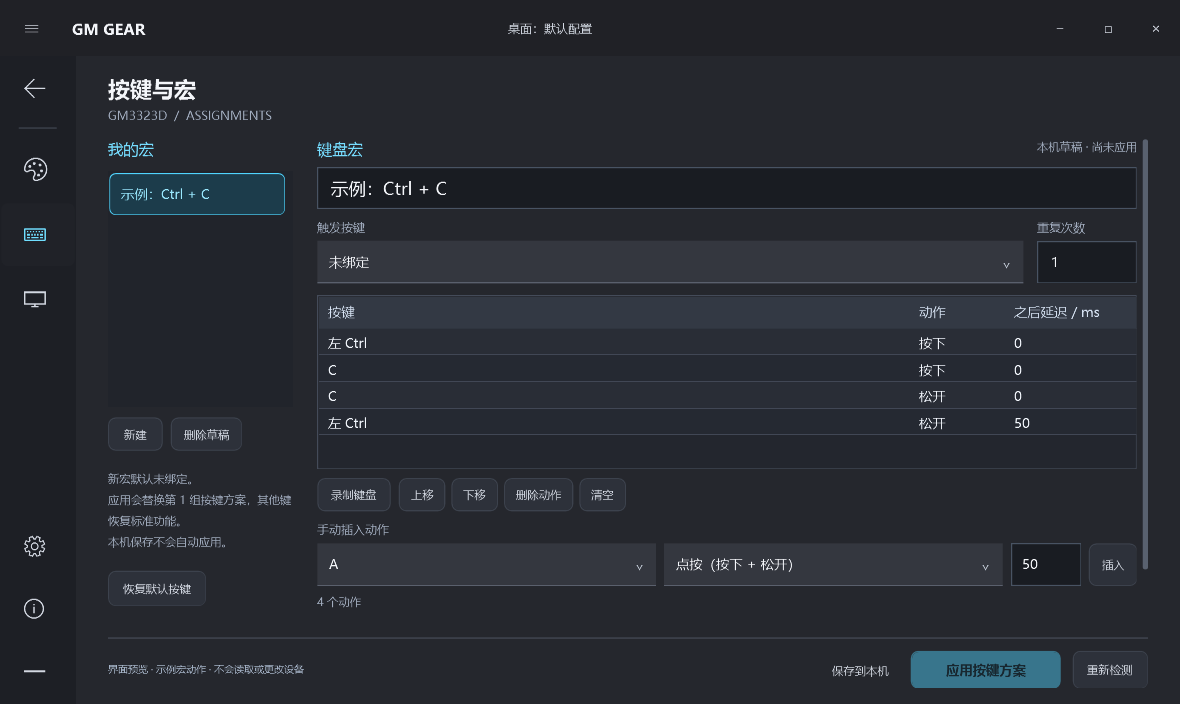
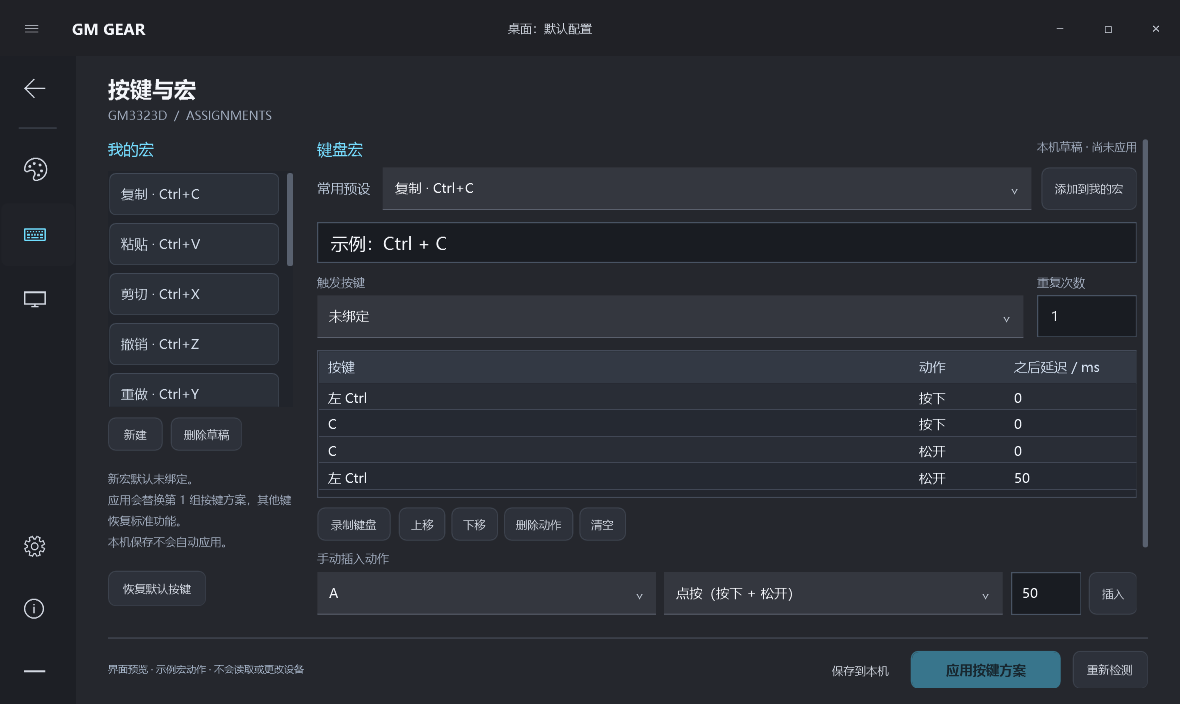
Add common shortcut presets and preserve existing macro drafts

diff --git a/hub/MainWindow.xaml b/hub/MainWindow.xaml
@@ -149,12 +149,17 @@
       </StackPanel>
       <StackPanel Grid.Column="2">
        <Grid Margin="0,0,0,8"><TextBlock Text="键盘宏" Foreground="#76DDFF" FontSize="15"/><TextBlock Text="{Binding Macros.Status}" Foreground="#A2ADBF" FontSize="11" HorizontalAlignment="Right"/></Grid>
+       <Grid Margin="0,0,0,12"><Grid.ColumnDefinitions><ColumnDefinition Width="Auto"/><ColumnDefinition Width="*"/><ColumnDefinition Width="Auto"/></Grid.ColumnDefinitions>
+        <TextBlock Text="常用预设" Foreground="#BCC9DB" VerticalAlignment="Center" Margin="0,0,12,0"/>
+        <ComboBox x:Name="MacroPresetBox" Grid.Column="1" ItemsSource="{Binding Macros.Presets}" SelectedItem="{Binding Macros.SelectedPreset}" DisplayMemberPath="Label" AutomationProperties.Name="常用宏预设"/>
+        <Button x:Name="MacroPresetButton" Grid.Column="2" Content="添加到我的宏" Padding="13,9" FontSize="11" Margin="10,0,0,0" ToolTip="生成完整按键动作，默认未绑定；快捷键效果取决于当前应用。"/>
+       </Grid>
        <TextBox x:Name="MacroNameBox" Text="{Binding Macros.Selected.Name,UpdateSourceTrigger=PropertyChanged}" MaxLength="40" FontSize="17" Padding="10,8" AutomationProperties.Name="宏名称"/>
        <Grid Margin="0,11,0,12"><Grid.ColumnDefinitions><ColumnDefinition Width="*"/><ColumnDefinition Width="14"/><ColumnDefinition Width="100"/></Grid.ColumnDefinitions>
         <StackPanel><TextBlock Text="触发按键" Style="{StaticResource Muted}" Margin="0,0,0,5"/><ComboBox x:Name="MacroTargetBox" ItemsSource="{Binding Macros.Targets}" SelectedIndex="{Binding Macros.Selected.TargetIndex}" AutomationProperties.Name="宏触发按键"/></StackPanel>
         <StackPanel Grid.Column="2"><TextBlock Text="重复次数" Style="{StaticResource Muted}" Margin="0,0,0,5"/><TextBox x:Name="MacroRepeatBox" Text="{Binding Macros.Selected.RepeatText,UpdateSourceTrigger=PropertyChanged}" MaxLength="3" Padding="10,11" AutomationProperties.Name="宏重复次数"/></StackPanel>
        </Grid>
-       <DataGrid x:Name="MacroActionsGrid" ItemsSource="{Binding Macros.Selected.Actions}" SelectedItem="{Binding Macros.Action}" AutoGenerateColumns="False" CanUserAddRows="False" CanUserDeleteRows="False" CanUserReorderColumns="False" SelectionMode="Single" SelectionUnit="FullRow" Height="174" RowHeight="27" HeadersVisibility="Column" GridLinesVisibility="Horizontal" HorizontalGridLinesBrush="#414755" Background="#23262E" Foreground="#F3F6FC" BorderBrush="#444B59" RowBackground="#292D36" AlternatingRowBackground="#252932">
+       <DataGrid x:Name="MacroActionsGrid" ItemsSource="{Binding Macros.Selected.Actions}" SelectedItem="{Binding Macros.Action}" AutoGenerateColumns="False" CanUserAddRows="False" CanUserDeleteRows="False" CanUserReorderColumns="False" SelectionMode="Single" SelectionUnit="FullRow" Height="148" RowHeight="27" HeadersVisibility="Column" GridLinesVisibility="Horizontal" HorizontalGridLinesBrush="#414755" Background="#23262E" Foreground="#F3F6FC" BorderBrush="#444B59" RowBackground="#292D36" AlternatingRowBackground="#252932">
         <DataGrid.Resources>
          <Style TargetType="DataGridColumnHeader"><Setter Property="Background" Value="#333944"/><Setter Property="Foreground" Value="#D6E2F2"/><Setter Property="Padding" Value="9,7"/><Setter Property="BorderThickness" Value="0"/></Style>
          <Style x:Key="MacroCellText" TargetType="TextBlock"><Setter Property="Foreground" Value="#F1F5FB"/><Setter Property="Padding" Value="8,4"/></Style>
@@ -185,7 +190,7 @@
           </StackPanel></Border>
           <Border x:Name="AboutPage" Visibility="Collapsed" Background="#23262E" CornerRadius="14" Padding="34"><StackPanel MaxWidth="650" HorizontalAlignment="Left">
             <TextBlock Text="GM GEAR" FontFamily="Segoe UI" FontSize="40" FontWeight="Bold" Foreground="#75DFFF"/><TextBlock Text="为 GM3323D 打造的独立外设控制中心" FontSize="16" Margin="0,10,0,25"/>
-            <TextBlock Text="v0.3.0 · Windows 桌面版" Style="{StaticResource Muted}"/>
+            <TextBlock Text="v0.3.1 · Windows 桌面版" Style="{StaticResource Muted}"/>
             <TextBlock Text="灯光和电量实现基于 Evan816Z / GM3323D-MouseLight，按 MIT 许可证二次开发。保留上游源码与版权声明，重做独立界面及 HID 适配层。" Foreground="#BAC5D6" Margin="0,25,0,14" LineHeight="25"/>
             <TextBlock Text="这是独立开发的鼠标控制软件，未与罗技或戴尔关联。" Style="{StaticResource Muted}" LineHeight="23"/>
             <Button x:Name="SourceButton" Content="查看上游项目  ↗" HorizontalAlignment="Left" Margin="0,28,0,0"/>

diff --git a/hub/tests/Tests.cs b/hub/tests/Tests.cs
@@ -108,6 +108,7 @@ namespace GearHub {
                 fake=new FakeSession();Protocol.ApplyPolling(fake,500,CancellationToken.None);
                 Check(fake.History.Count==2&&fake.History[0].SequenceEqual(new byte[]{12,4,1,5})&&fake.History[1].SequenceEqual(new byte[]{6,9,1,2,0,0,0,0,0}),"polling apply activates default profile independently of DPI");
                 MacroChecks();
+                PresetChecks();
                 if(args.Length>0&&args[0]=="--probe"){
                     var devices=Native.Find();foreach(var d in devices)Console.WriteLine(d.Product+" Page="+d.Caps.Page+" Input="+d.Caps.Input+" Feature="+d.Caps.Feature);
                     Check(devices.Exists(d=>d.Caps.Page==0xA&&d.Caps.Input==5),"real mouse battery interface detected");
@@ -159,6 +160,32 @@ namespace GearHub {
         static void MacroKeyEvent(Hub hub,System.Windows.Input.Key key,bool down){
             var e=new System.Windows.Input.KeyEventArgs(System.Windows.Input.Keyboard.PrimaryDevice,PresentationSource.FromVisual(hub.Window),Environment.TickCount,key);
             e.RoutedEvent=down?System.Windows.Input.Keyboard.PreviewKeyDownEvent:System.Windows.Input.Keyboard.PreviewKeyUpEvent;hub.Window.RaiseEvent(e);
+        }
+        static void PresetChecks(){
+            Check(MacroPresets.All.Count==20&&MacroPresets.All.Select(p=>p.Id).Distinct().Count()==20,"twenty distinct common shortcut presets are available");
+            foreach(var preset in MacroPresets.All){var macro=preset.Create(false);MacroProtocol.ValidateDefinition(macro,false);if(macro.TargetIndex!=0||macro.Repeats!=1)throw new Exception("Preset must be unassigned and finite");}
+            Check(true,"every preset has paired keys valid delays and no default binding");
+            var copy=MacroPresets.All[0].Create(false);
+            Check(copy.Actions.Select(a=>a.Code).SequenceEqual(new byte[]{224,6,6,224})&&copy.Actions.Select(a=>a.Down).SequenceEqual(new[]{true,true,false,false}),"copy preset holds Ctrl around C and releases in reverse order");
+            var screenshot=MacroPresets.All.First(p=>p.Id=="screenshot").Create(false);
+            Check(screenshot.Actions.Select(a=>a.Code).SequenceEqual(new byte[]{227,225,22,22,225,227}),"screenshot preset uses Win Shift S with complete releases");
+            var model=new MacroModel();Check(model.Library.Count==8&&model.Library.All(m=>m.TargetIndex==0)&&!model.CanApply,"eight initial shortcuts are ready in My Macros and never auto-bind");
+            model.SelectedPreset=MacroPresets.All[1];model.AddPreset();var first=model.Selected;first.Actions[0].DelayText="200";first.TargetIndex=1;model.AddPreset();
+            Check(model.Selected.Id!=first.Id&&model.Selected.TargetIndex==0&&model.Selected.Actions[0].DelayText=="50","adding a preset makes an independent editable unassigned copy");
+            while(model.Library.Count<20)model.AddPreset();Check(Throws(()=>model.AddPreset())&&model.Library.Count==20,"adding a preset respects library capacity without replacing drafts");
+            string folder=Path.Combine(Path.GetTempPath(),"gmgear-presets-"+Guid.NewGuid().ToString("N")),file=Path.Combine(folder,"macros.json");Directory.CreateDirectory(folder);
+            try{
+                var legacy=new MacroFile {Version=1,Macros=new System.Collections.Generic.List<MacroItem>{new MacroItem {Id="keep",Name="我的原有宏",Repeat="3",Target=2,Actions=new System.Collections.Generic.List<MacroEvent>{new MacroEvent {Key=104,Down=true,Delay="50"},new MacroEvent {Key=104,Down=false,Delay="50"}}}}};
+                string original=new System.Web.Script.Serialization.JavaScriptSerializer().Serialize(legacy);File.WriteAllText(file,original);
+                var upgraded=MacroStorage.LoadForEditor(file);var kept=upgraded.Single(m=>m.Id=="keep");
+                Check(upgraded.Count==9&&kept.Name=="我的原有宏"&&kept.TargetIndex==2&&kept.Repeats==3&&kept.Actions.Count==2,"legacy upgrade adds defaults while preserving existing names actions and bindings");
+                Check(Directory.GetFiles(folder,"*.bak").Length==1&&File.ReadAllText(Directory.GetFiles(folder,"*.bak")[0])==original&&MacroStorage.LoadForEditor(file).Count==9,"legacy upgrade backs up original and does not duplicate presets on restart");
+                upgraded.RemoveAll(m=>m.Id=="preset-copy");MacroStorage.Save(file,upgraded);
+                Check(!MacroStorage.LoadForEditor(file).Any(m=>m.Id=="preset-copy"),"a deliberately deleted preset stays deleted after saving and reopening");
+                MacroStorage.Save(file,new MacroDefinition[0]);Check(MacroStorage.LoadForEditor(file).Count==0,"an intentionally empty saved library stays empty");
+                File.Delete(file);Check(MacroStorage.LoadForEditor(file).Count==8&&MacroStorage.LoadForEditor(file).Count==8,"first run persists the initial presets only once");
+                string invalid="{broken";File.WriteAllText(file,invalid);Check(Throws(()=>MacroStorage.LoadForEditor(file))&&File.ReadAllText(file)==invalid,"unreadable user macro file is never replaced by presets");
+            }finally{foreach(string path in Directory.GetFiles(folder))File.Delete(path);Directory.Delete(folder);}
         }
         // Explicitly authorized one-time rear-side-button test. Always restore default buttons.
         static void LiveMacro(string output){
@@ -213,6 +240,12 @@ namespace GearHub {
                 hub.B("ApplyButton").RaiseEvent(new RoutedEventArgs(Button.ClickEvent));Check(hub.Model.Notice.Contains("不会写入"),"preview DPI apply never writes hardware");
                 hub.B("FeatureButtons").RaiseEvent(new RoutedEventArgs(Button.ClickEvent));Pump();
                 Check(((FrameworkElement)hub.Window.FindName("ButtonsPage")).Visibility==Visibility.Visible&&hub.Model.Macros.Selected.TargetIndex==0&&!hub.Model.CanApply,"macro page opens with no default binding");
+                Check(hub.Model.Macros.Library.Count==8&&hub.Model.Macros.Selected.Actions.Count==4,"macro page shows ready-made copy and seven other shortcuts");
+                ((ComboBox)hub.Window.FindName("MacroPresetBox")).SelectedIndex=18;hub.B("MacroPresetButton").RaiseEvent(new RoutedEventArgs(Button.ClickEvent));Pump();
+                Check(hub.Model.Macros.Selected.Name.Contains("区域截图")&&hub.Model.Macros.Selected.Actions.Count==6&&hub.Model.Macros.Selected.TargetIndex==0&&!hub.Model.CanApply,"preset selector adds complete shortcut actions without applying hardware");
+                Check(((ComboBox)hub.Window.FindName("MacroPresetBox")).SelectionBoxItem.ToString()=="区域截图 · Win+Shift+S","preset selector displays the shortcut name in the native combo template");
+                ((ComboBox)hub.Window.FindName("MacroPresetBox")).SelectedIndex=0;hub.Model.Macros.Selected=hub.Model.Macros.Library[0];hub.Model.Notice="界面预览 · 内置常用预设 · 默认未绑定";Capture(hub,Path.Combine(output,"gear-presets-preview.png"));
+                hub.B("MacroNewButton").RaiseEvent(new RoutedEventArgs(Button.ClickEvent));
                 hub.B("MacroInsertButton").RaiseEvent(new RoutedEventArgs(Button.ClickEvent));Check(hub.Model.Macros.Selected.Actions.Count==2,"manual click insertion creates balanced down-up actions");
                 hub.B("MacroClearButton").RaiseEvent(new RoutedEventArgs(Button.ClickEvent));hub.B("MacroRecordButton").RaiseEvent(new RoutedEventArgs(Button.ClickEvent));
                 MacroKeyEvent(hub,System.Windows.Input.Key.LeftCtrl,true);MacroKeyEvent(hub,System.Windows.Input.Key.C,true);MacroKeyEvent(hub,System.Windows.Input.Key.C,false);MacroKeyEvent(hub,System.Windows.Input.Key.LeftCtrl,false);MacroKeyEvent(hub,System.Windows.Input.Key.Escape,true);

diff --git a/hub/Macros.cs b/hub/Macros.cs
@@ -69,15 +69,17 @@ namespace GearHub {
     public sealed class MacroModel : INotifyPropertyChanged {
         public event PropertyChangedEventHandler PropertyChanged;
         public ObservableCollection<MacroDefinition> Library {get;private set;}
-        MacroDefinition selected;MacroAction action;MacroKey key=MacroKeys.All[0];int insertMode;
+        MacroDefinition selected;MacroAction action;MacroKey key=MacroKeys.All[0];MacroPreset preset=MacroPresets.All[0];int insertMode;
         string delay="50",status="本机草稿 · 默认未绑定";bool recording;
-        public MacroModel(){Library=new ObservableCollection<MacroDefinition>();Library.CollectionChanged+=(s,e)=>{if(e.NewItems!=null)foreach(MacroDefinition m in e.NewItems)m.PropertyChanged+=(a,b)=>Dirty();Dirty();};Add();}
+        public MacroModel(){Library=new ObservableCollection<MacroDefinition>();Library.CollectionChanged+=(s,e)=>{if(e.NewItems!=null)foreach(MacroDefinition m in e.NewItems)m.PropertyChanged+=(a,b)=>Dirty();Dirty();};var initial=new List<MacroDefinition>();MacroPresets.AddDefaults(initial);Replace(initial);}
         void Notify(string field){var fn=PropertyChanged;if(fn!=null)fn(this,new PropertyChangedEventArgs(field));}
         void Dirty(){Status="本机草稿 · 尚未应用";Notify("Error");Notify("CanApply");Notify("StepCount");}
         public MacroDefinition Selected {get{return selected;}set{selected=value;Action=null;Notify("Selected");Notify("HasSelection");Notify("Error");Notify("StepCount");}}
         public bool HasSelection {get{return selected!=null;}}
         public MacroAction Action {get{return action;}set{action=value;Notify("Action");}}
         public IList<MacroKey> Keys {get{return MacroKeys.All;}}
+        public IList<MacroPreset> Presets {get{return MacroPresets.All;}}
+        public MacroPreset SelectedPreset {get{return preset;}set{preset=value;Notify("SelectedPreset");}}
         public MacroKey InsertKey {get{return key;}set{key=value;Notify("InsertKey");}}
         public string[] InsertModes {get{return new[]{"点按（按下 + 松开）","仅按下","仅松开"};}}
         public int InsertMode {get{return insertMode;}set{insertMode=value;Notify("InsertMode");}}
@@ -90,6 +92,7 @@ namespace GearHub {
         public string Error {get{if(selected==null||(selected.Actions.Count==0&&selected.TargetIndex==0))return "";try{MacroProtocol.ValidateDefinition(selected,false);if(Library.Any(m=>m.TargetIndex!=0))MacroProtocol.ValidatePlan(Library);return "";}catch(Exception ex){return ex.Message;}}}
         public bool CanApply {get{if(recording)return false;try{MacroProtocol.ValidatePlan(Library);return true;}catch(Exception){return false;}}}
         public void Add(){if(Library.Count>=20)throw new ArgumentException("最多保存 20 个本机宏。");var macro=new MacroDefinition {Name="新建宏 "+(Library.Count+1)};Library.Add(macro);Selected=macro;}
+        public void AddPreset(){if(preset==null)return;if(Library.Count>=20)throw new ArgumentException("宏列表已满（20 个）；请先删除不需要的草稿。");var macro=preset.Create(false);Library.Add(macro);Selected=macro;}
         public void Remove(){if(selected==null)return;int index=Library.IndexOf(selected);Library.Remove(selected);Selected=Library.Count==0?null:Library[Math.Min(index,Library.Count-1)];}
         public void Insert(){
             if(selected==null||key==null)return;
@@ -105,7 +108,7 @@ namespace GearHub {
     }
 
     public sealed class MacroFile {
-        public int Version {get;set;} public List<MacroItem> Macros {get;set;}
+        public int Version {get;set;} public int PresetsVersion {get;set;} public List<MacroItem> Macros {get;set;}
     }
     public sealed class MacroItem {
         public string Id {get;set;} public string Name {get;set;} public string Repeat {get;set;} public int Target {get;set;}
@@ -116,15 +119,17 @@ namespace GearHub {
         public static string DefaultPath {get{return Path.Combine(Environment.GetFolderPath(Environment.SpecialFolder.LocalApplicationData),@"GM3323DGearHub\macros.json");}}
         public static void Save(string path,IEnumerable<MacroDefinition> library){
             var list=library.ToList();if(list.Count>20||list.Any(m=>m.Name.Length>40||m.Actions.Count>50))throw new ArgumentException("宏名称最多 40 字，单宏最多 50 个动作。");
-            var file=new MacroFile {Version=1,Macros=list.Select(m=>new MacroItem {Id=m.Id,Name=m.Name,Repeat=m.RepeatText,Target=m.TargetIndex,Actions=m.Actions.Select(a=>new MacroEvent {Key=a.Code,Down=a.Down,Delay=a.DelayText}).ToList()}).ToList()};
+            var file=new MacroFile {Version=1,PresetsVersion=1,Macros=list.Select(m=>new MacroItem {Id=m.Id,Name=m.Name,Repeat=m.RepeatText,Target=m.TargetIndex,Actions=m.Actions.Select(a=>new MacroEvent {Key=a.Code,Down=a.Down,Delay=a.DelayText}).ToList()}).ToList()};
             string json=new JavaScriptSerializer().Serialize(file);Directory.CreateDirectory(Path.GetDirectoryName(Path.GetFullPath(path)));
             string temp=path+".tmp";File.WriteAllText(temp,json,System.Text.Encoding.UTF8);
             if(File.Exists(path))File.Replace(temp,path,null);else File.Move(temp,path);
         }
-        public static List<MacroDefinition> Load(string path){
+        public static List<MacroDefinition> Load(string path){bool legacy;return Load(path,out legacy);}
+        static List<MacroDefinition> Load(string path,out bool legacy){
             if(new FileInfo(path).Length>131072)throw new ArgumentException("宏文件过大。");
             var file=new JavaScriptSerializer().Deserialize<MacroFile>(File.ReadAllText(path));
             if(file==null||file.Version!=1||file.Macros==null||file.Macros.Count>20)throw new ArgumentException("宏文件版本或格式不正确。");
+            legacy=file.PresetsVersion<1;
             var result=new List<MacroDefinition>();
             foreach(var m in file.Macros){
                 if(m==null||m.Name==null||m.Name.Length>40||m.Actions==null||m.Actions.Count>50||m.Target<0||m.Target>3)throw new ArgumentException("宏文件内容不完整。");
@@ -133,6 +138,16 @@ namespace GearHub {
                 result.Add(macro);
             }
             return result;
+        }
+        // Upgrade old drafts once. Saving the marker also preserves deliberate preset deletions.
+        public static List<MacroDefinition> LoadForEditor(string path){
+            bool exists=File.Exists(path),legacy=true;var library=exists?Load(path,out legacy):new List<MacroDefinition>();
+            if(legacy){
+                MacroPresets.AddDefaults(library);
+                if(exists)File.Copy(path,path+".before-presets-"+DateTime.UtcNow.ToString("yyyyMMddHHmmss")+"-"+Guid.NewGuid().ToString("N").Substring(0,6)+".bak");
+                Save(path,library);
+            }
+            return library;
         }
     }
 }

diff --git a/hub/MacroPresets.cs b/hub/MacroPresets.cs
@@ -1,0 +1,49 @@
+using System;
+using System.Collections.Generic;
+using System.Linq;
+using System.Windows.Input;
+
+namespace GearHub {
+    public sealed class MacroPreset {
+        readonly Key[] keys;
+        public string Id {get;private set;}
+        public string Label {get;private set;}
+        public override string ToString(){return Label;}
+        internal MacroPreset(string id,string name,string shortcut,params Key[] chord){Id=id;Label=name+" · "+shortcut;keys=chord;}
+        public MacroDefinition Create(bool initial){
+            var macro=new MacroDefinition {Name=Label};if(initial)macro.Id="preset-"+Id;
+            foreach(var key in keys)macro.Actions.Add(new MacroAction {Code=MacroKeys.FromWpf(key).Value,Down=true,DelayText="50"});
+            for(int i=keys.Length-1;i>=0;i--)macro.Actions.Add(new MacroAction {Code=MacroKeys.FromWpf(keys[i]).Value,Down=false,DelayText="50"});
+            return macro;
+        }
+    }
+    public static class MacroPresets {
+        static readonly IList<MacroPreset> presets=Array.AsReadOnly(new[]{
+            new MacroPreset("copy","复制","Ctrl+C",Key.LeftCtrl,Key.C),
+            new MacroPreset("paste","粘贴","Ctrl+V",Key.LeftCtrl,Key.V),
+            new MacroPreset("cut","剪切","Ctrl+X",Key.LeftCtrl,Key.X),
+            new MacroPreset("undo","撤销","Ctrl+Z",Key.LeftCtrl,Key.Z),
+            new MacroPreset("redo","重做","Ctrl+Y",Key.LeftCtrl,Key.Y),
+            new MacroPreset("select-all","全选","Ctrl+A",Key.LeftCtrl,Key.A),
+            new MacroPreset("save","保存","Ctrl+S",Key.LeftCtrl,Key.S),
+            new MacroPreset("find","查找","Ctrl+F",Key.LeftCtrl,Key.F),
+            new MacroPreset("refresh","刷新","F5",Key.F5),
+            new MacroPreset("rename","重命名","F2",Key.F2),
+            new MacroPreset("new-tab","新建标签页","Ctrl+T",Key.LeftCtrl,Key.T),
+            new MacroPreset("close-tab","关闭标签页","Ctrl+W",Key.LeftCtrl,Key.W),
+            new MacroPreset("reopen-tab","重新打开标签页","Ctrl+Shift+T",Key.LeftCtrl,Key.LeftShift,Key.T),
+            new MacroPreset("next-tab","下一标签页","Ctrl+Tab",Key.LeftCtrl,Key.Tab),
+            new MacroPreset("previous-tab","上一标签页","Ctrl+Shift+Tab",Key.LeftCtrl,Key.LeftShift,Key.Tab),
+            new MacroPreset("switch-window","切换窗口","Alt+Tab",Key.LeftAlt,Key.Tab),
+            new MacroPreset("desktop","显示桌面","Win+D",Key.LWin,Key.D),
+            new MacroPreset("explorer","文件资源管理器","Win+E",Key.LWin,Key.E),
+            new MacroPreset("screenshot","区域截图","Win+Shift+S",Key.LWin,Key.LeftShift,Key.S),
+            new MacroPreset("plain-paste","粘贴为纯文本","Ctrl+Shift+V",Key.LeftCtrl,Key.LeftShift,Key.V)
+        });
+        public static IList<MacroPreset> All {get{return presets;}}
+        public static int AddDefaults(List<MacroDefinition> library){
+            var additions=presets.Take(8).Where(p=>!library.Any(m=>m.Id=="preset-"+p.Id||m.Name==p.Label)).Take(Math.Max(0,20-library.Count)).Select(p=>p.Create(true)).ToList();
+            library.InsertRange(0,additions);return additions.Count;
+        }
+    }
+}

diff --git a/hub/App.cs b/hub/App.cs
@@ -123,6 +123,7 @@ namespace GearHub {
             B("SaveDraftButton").Click+=(s,e)=>{if(Model.MacroPage)SaveMacros();else if(Model.DpiPage)SaveSensitivity();else SaveDraft();};
             B("DpiDefaultButton").Click+=(s,e)=>Model.Sensitivity.Load(new DpiScheme());
             B("MacroNewButton").Click+=(s,e)=>MacroEdit(()=>Model.Macros.Add());
+            B("MacroPresetButton").Click+=(s,e)=>MacroEdit(()=>Model.Macros.AddPreset());
             B("MacroDeleteButton").Click+=(s,e)=>MacroEdit(()=>Model.Macros.Remove());
             B("MacroInsertButton").Click+=(s,e)=>MacroEdit(()=>Model.Macros.Insert());
             B("MacroUpButton").Click+=(s,e)=>MacroEdit(()=>Model.Macros.Move(-1));
@@ -337,7 +338,7 @@ namespace GearHub {
             } catch(Exception ex){Model.Notice="保存失败："+ex.Message;}
         }
         void LoadDraft() {
-            try{if(File.Exists(MacroStorage.DefaultPath))Model.Macros.Replace(MacroStorage.Load(MacroStorage.DefaultPath));}
+            try{Model.Macros.Replace(MacroStorage.LoadForEditor(MacroStorage.DefaultPath));}
             catch(Exception){Model.Macros.Status="本机宏文件不可读；原文件未修改";}
             try{using(var key=Registry.CurrentUser.OpenSubKey(RegistryPath+@"\Sensitivity")){
                 if(key!=null){

diff --git a/hub/AssemblyInfo.cs b/hub/AssemblyInfo.cs
@@ -2,6 +2,6 @@ using System.Reflection;
 [assembly:AssemblyTitle("GM GEAR")]
 [assembly:AssemblyProduct("GM3323D Gear Hub")]
 [assembly:AssemblyDescription("Independent GM3323D desktop control center")]
-[assembly:AssemblyVersion("0.3.0.0")]
-[assembly:AssemblyFileVersion("0.3.0.0")]
+[assembly:AssemblyVersion("0.3.1.0")]
+[assembly:AssemblyFileVersion("0.3.1.0")]
 [assembly:AssemblyCopyright("Based on GM3323D-MouseLight, copyright (c) 2026 tongz. MIT License.")]

diff --git a/docs/VALIDATION.md b/docs/VALIDATION.md
@@ -2,6 +2,14 @@
 
 日期：2026-10-25。针对新软件；原 GM3323D / 蓝牙耳机电量查看器保持独立。
 
+## v0.3.1 常用宏预设
+
+- 79 项协议与界面检查通过。新增 20 种完整快捷键预设，核对 Ctrl+C 和 Win+Shift+S 键码、按下顺序、逆序松开；所有预设均通过配对、容量和参数校验，默认未绑定且只执行一次。
+- 初始列表包含 8 个常用宏；顶部选择器可另加预设，生成独立可编辑草稿。重复添加不会共享动作对象，库满时不覆盖任何草稿。预设添加、保存、启动均不写鼠标；本次未重新执行硬件宏测试，设备协议没有变动。
+- 旧版草稿首次迁移前在宏文件同目录创建 `macros.json.before-presets-*.bak`；保留名称、动作、次数和已有绑定，仅在容量允许时加入缺少的初始预设。写入预设版本标记，避免每次启动重复添加；保存后删除的预设和空列表均不会重建。不可读原文件不覆盖。
+- 原生 WPF 界面测试通过实际预设选择器与添加按钮生成“区域截图”，检查完整六步与未绑定状态；目视检查默认窗口及常用预设显示，保存预览截图。测试使用示例数据，没有执行预设快捷键。
+- 快捷键遵循常见 Windows 应用约定；重做、标签页、纯文本粘贴等效果取决于前台应用支持，未声称所有程序或固件均已实测。
+
 ## v0.3.0 宏适配
 
 - 63 项协议与 WPF 界面检查通过。新增覆盖报文布局、长延迟扩展、按下松开配对、容量与重复次数边界、重复触发键冲突、默认未绑定、写入顺序、取消后不绑定、草稿保存、窗口内录制与离线预览不写设备。
